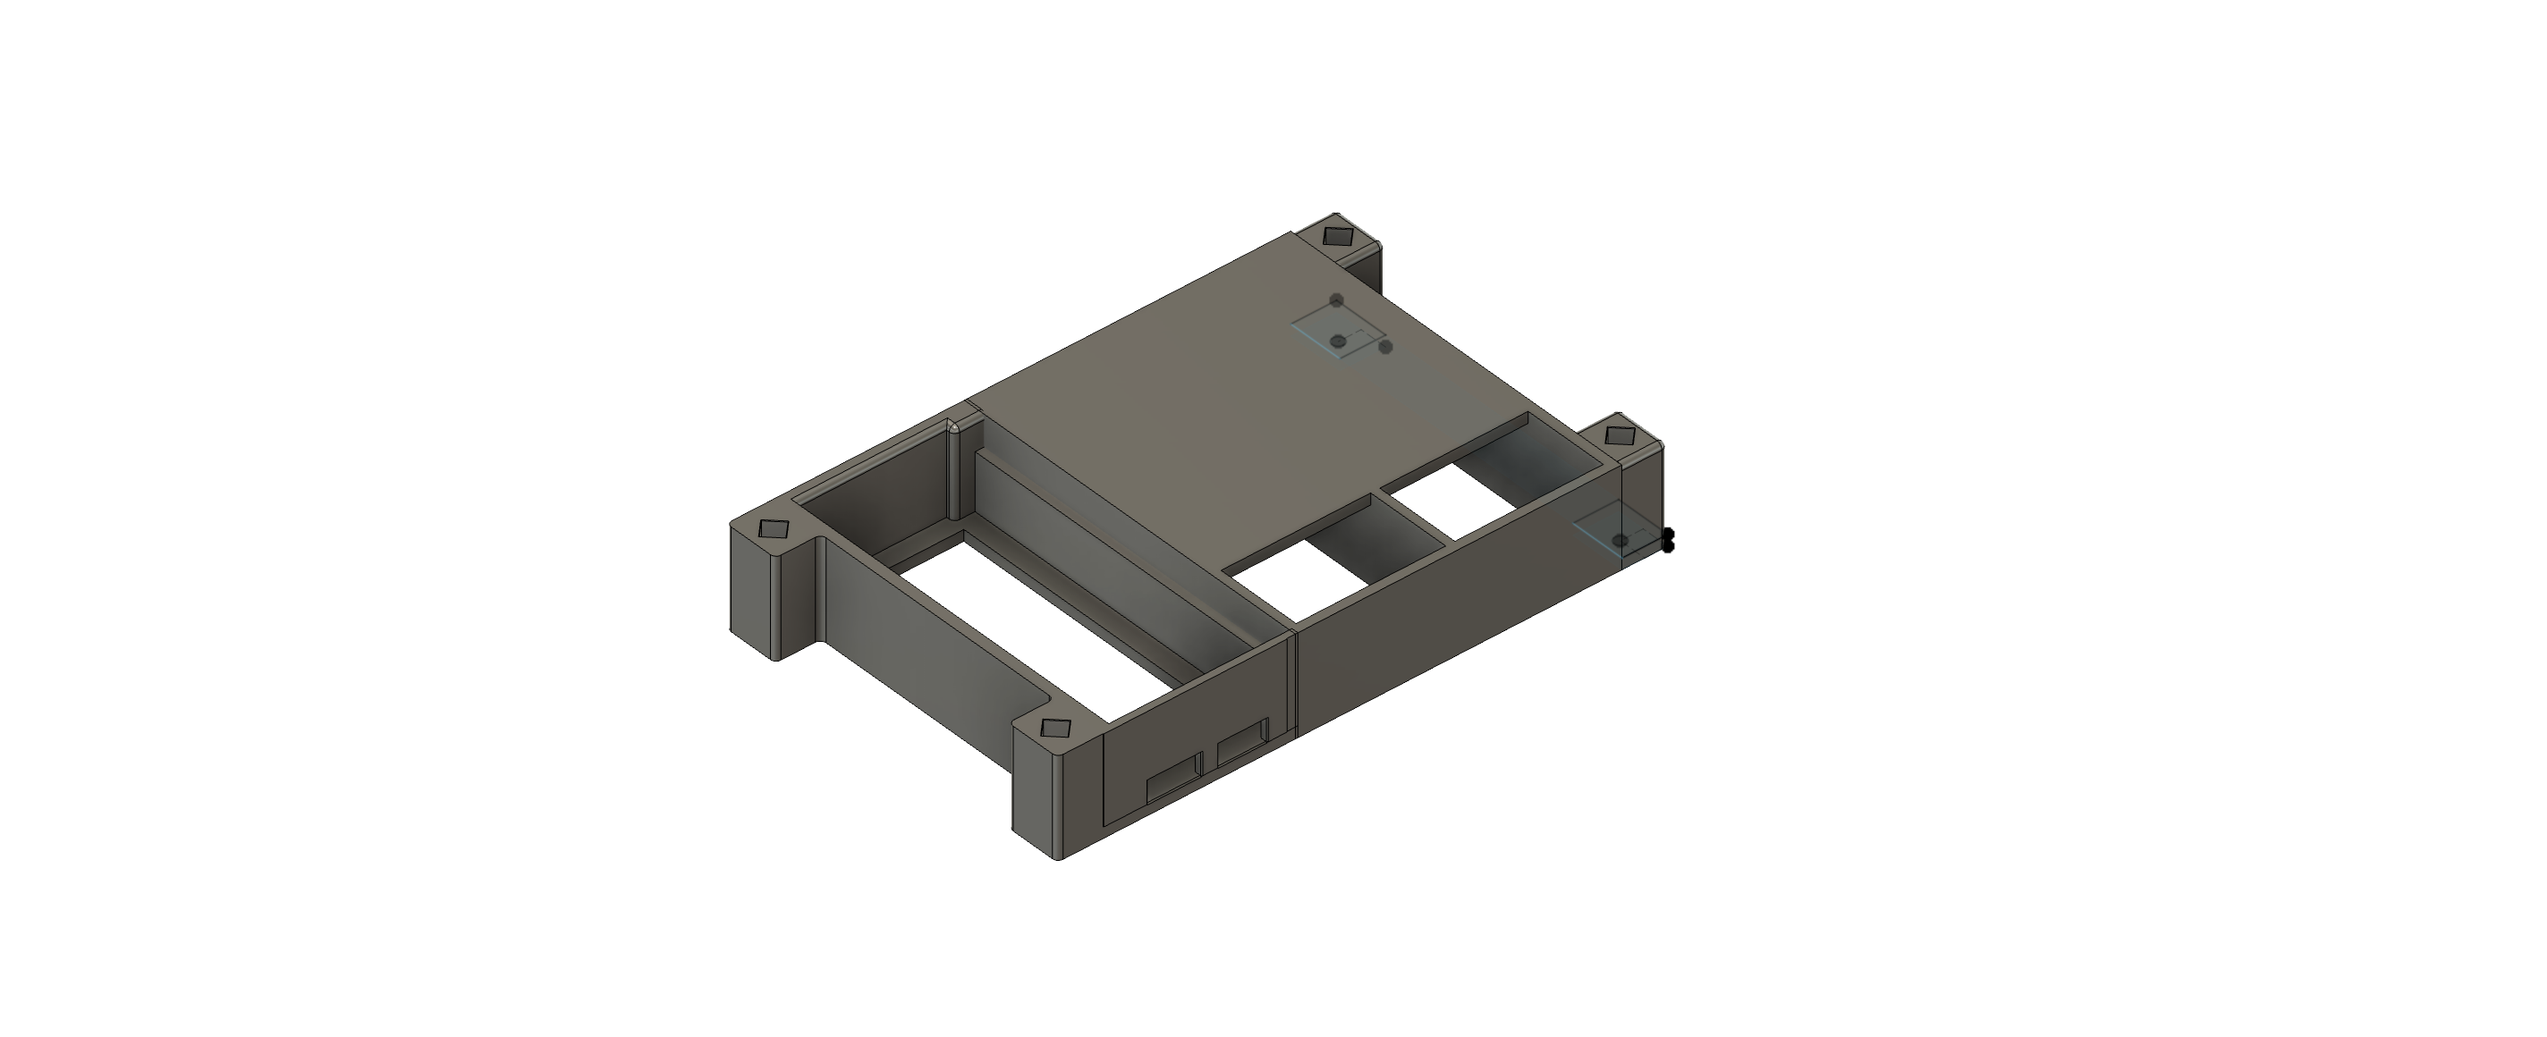
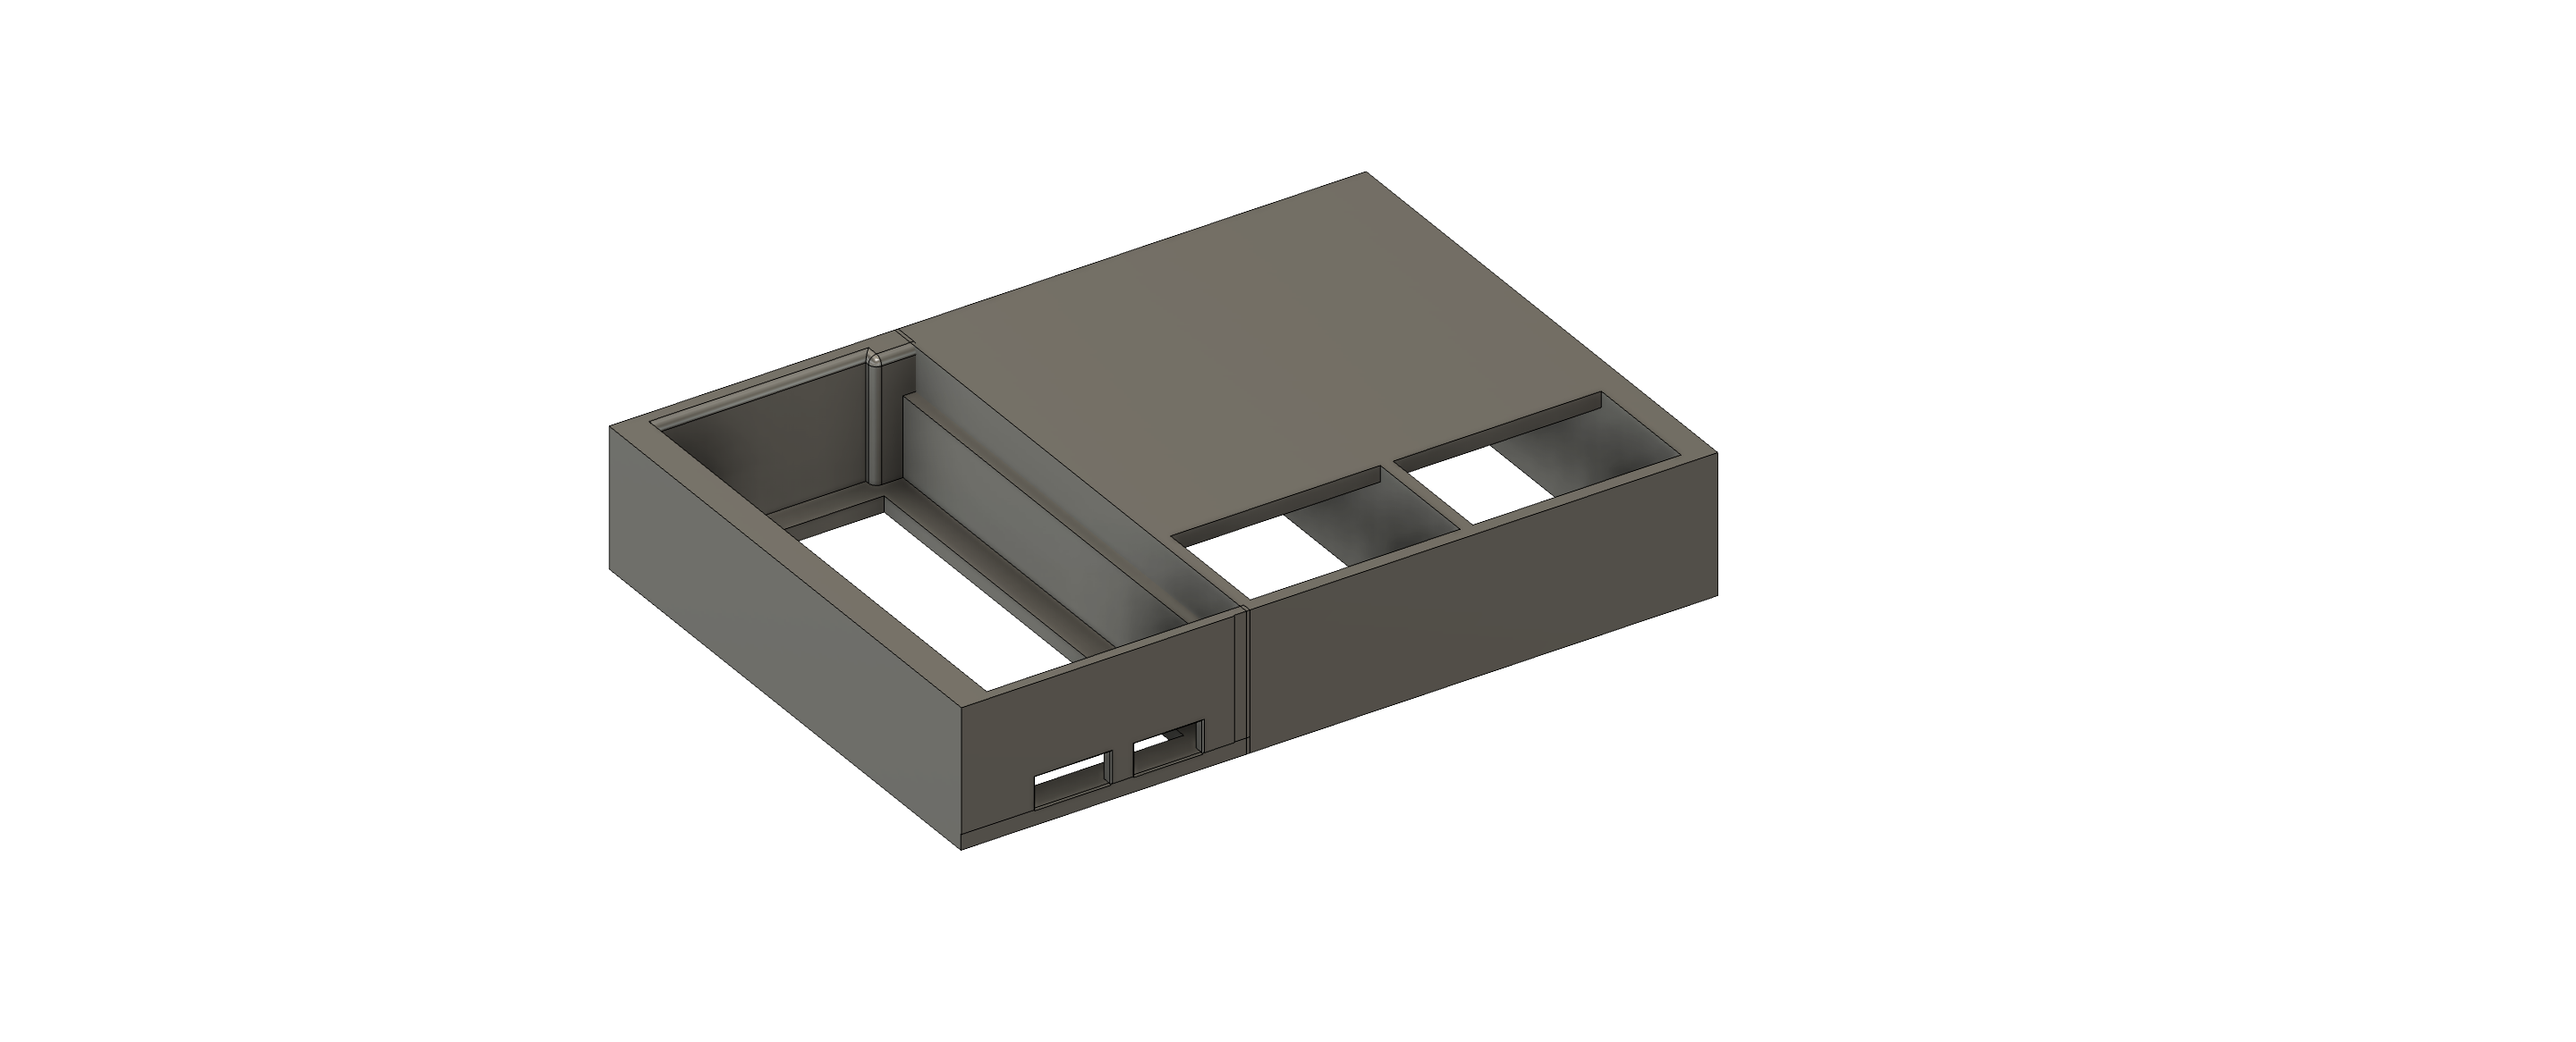
More little edits

Changed region(s): [[0.2188, 0.1552, 0.6875, 0.8379], [0.5312, 0.6517, 0.5625, 0.6828]]

diff --git a/index.html b/index.html
@@ -450,8 +450,8 @@
                         <figure class="gallery-item">
 
                             <img
-                                src="images/top_1.jpg"
-                                data-full="images/top_1.jpg"
+                                src="images/image_7.jpg"
+                                data-full="images/image_7.jpg"
                                 class="gallery-image lightbox-trigger"
                                 alt="Concept render"
                                 data-caption="No immediately available CAD for electronics and my caliper measuring isn't perfect so needed to do quite a few test fits.">
@@ -466,17 +466,6 @@
                                 class="gallery-image lightbox-trigger"
                                 alt="Concept render"
                                 data-caption="Baseplate fits quite snug with friction fit for both battery cases and the ESP32.">
-
-                        </figure>
-
-                        <figure class="gallery-item">
-
-                            <img
-                                src="images/image_7.jpg"
-                                data-full="images/image_7.jpg"
-                                class="gallery-image lightbox-trigger"
-                                alt="Concept render"
-                                data-caption="Took some testing since no CAD drawings for this part, but got it flush enough.">
 
                         </figure>
 
@@ -529,19 +518,19 @@
 
                     <ul>
                         <li>
-                            Wish it was a bit smaller and compact so next time will likely use a single Lithium battery with voltage boost
+                            I used a snap fit on the bottom which is working nicely, but glued the bottom and top sections, but would like to use either magnets, screws, or snap fit for a 3d version.
                         </li>
 
                         <li>
-                            I like the raw look with the knob circuit board being visible, but the display looks clunky. Will try to make it flush in Version 2
+                            I would probably reduce small around the display if I do another version, but at the same time that space provides alot of relief for the wiring.
                         </li>
 
                         <li>
-                            Originally had some very small M1.7 brass heat insets but had some issues inserting them into the PETG plastic so will switch to designed fit or magnets. Not sure yet.
+                            Originally had some very small M1.7 brass heat insets but had some issues inserting them into the PETG plastic so will switch to designed fit or magnets so switched to snap fit for bottom.
                         </li>
 
                         <li>
-                            Version 2 incoming :-)
+                            Version 3 tbd :-)
                         </li>
                     </ul>
 

diff --git a/js/viewer.js b/js/viewer.js
@@ -17,7 +17,7 @@ const camera = new THREE.PerspectiveCamera(
     1000
 );
 
-camera.position.set(220, 150, 220);
+camera.position.set(195, 133, 195);
 
 // Renderer
 const renderer = new THREE.WebGLRenderer({
